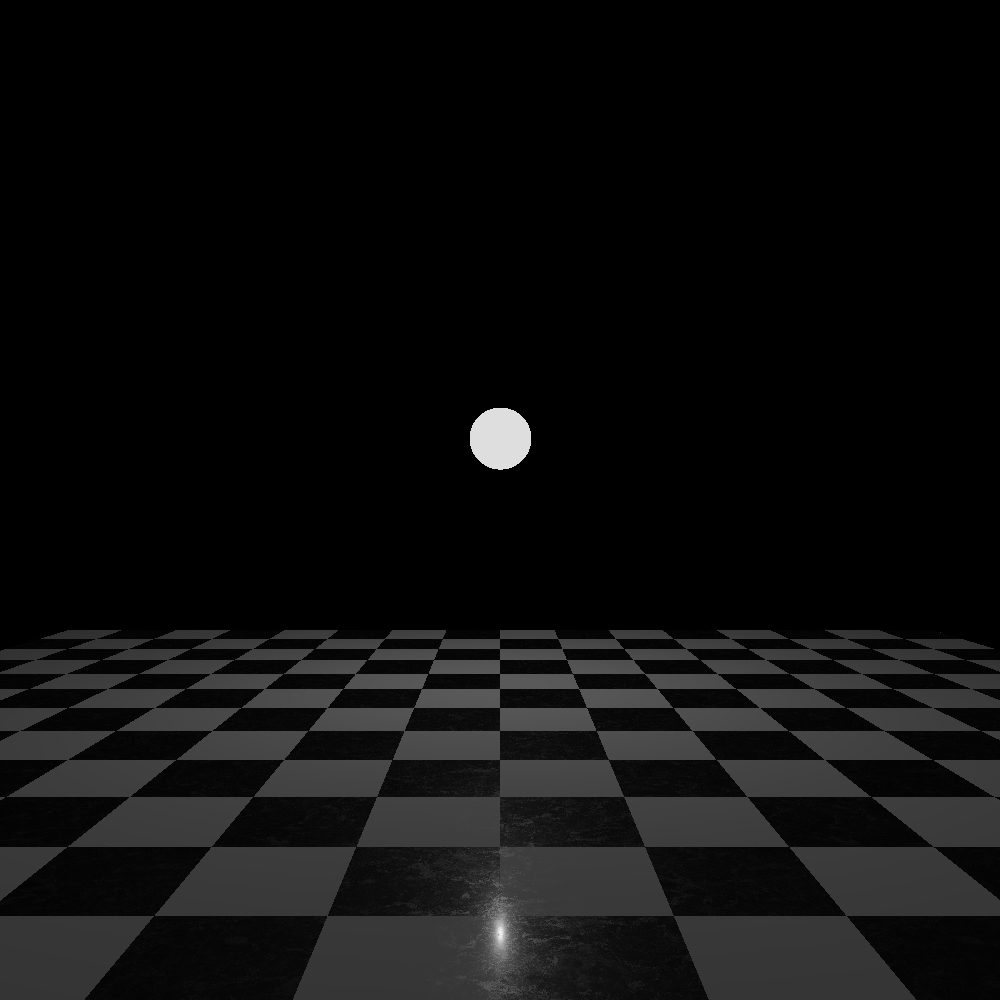
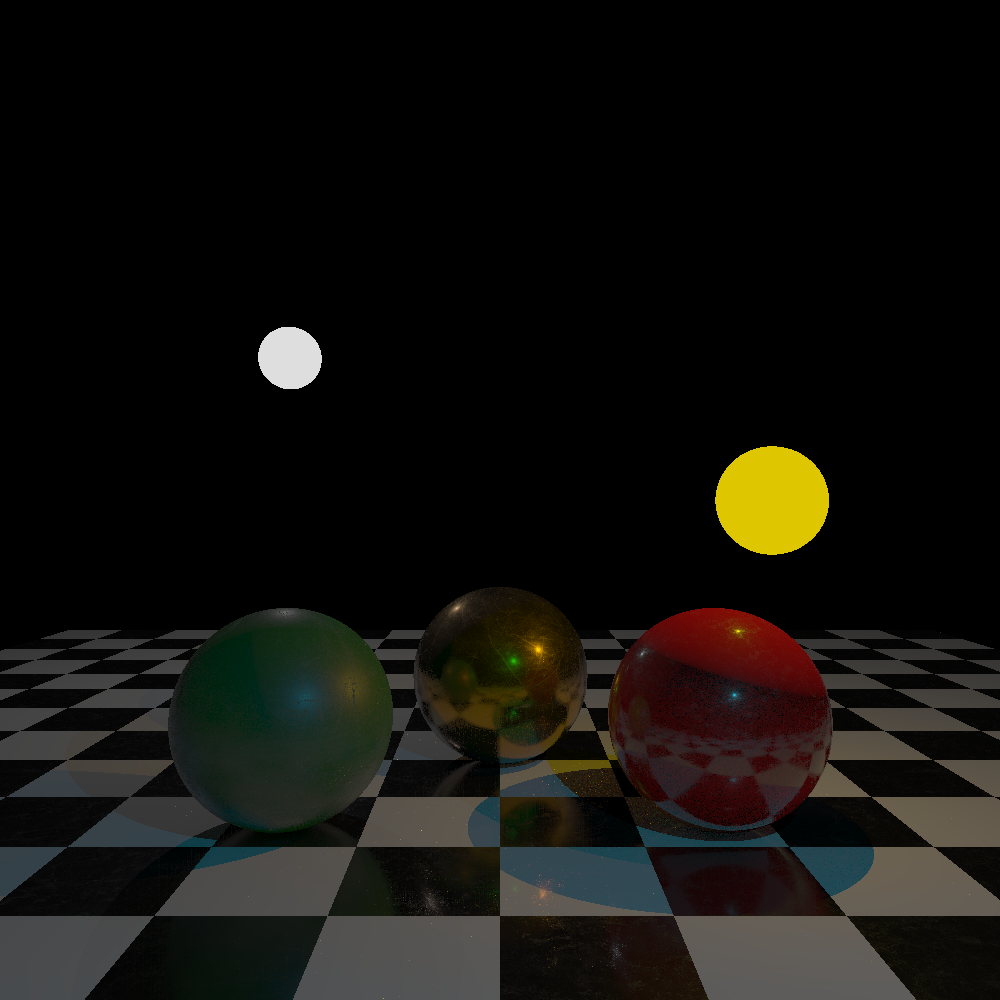
porting the most prolific scenes to the new concept

diff --git a/src/cgg/scne/Structures.java b/src/cgg/scne/Structures.java
@@ -1,0 +1,51 @@
+package cgg.scne;
+
+import static tools.Functions.*;
+import tools.*;
+import cgg.geom.*;
+import cgg.mtrl.*;
+
+
+public class Structures
+{
+	private Structures() {  }
+
+	public static void floor(GraphNode node,Vec3 pos,double size,double texel)
+	{
+		node.register_geometry(
+				new Box(pos,size,1,size,new PhysicalMaterial(Materials.tex_checker,Materials.mat_marble,texel))
+			);
+	}
+
+	public static Geometry die(Vec3 pos,Vec3 rot,Color col,double size,double metal,double roughness)
+	{
+		// corpus
+		Box corpus = new Box(pos,size,size,size,
+							 new PhysicalMaterial(col,color(metal,roughness,1)));
+		Sphere rounding = new Sphere(pos,.75*size,
+									 new PhysicalMaterial(multiply(col,1.5),color(metal,roughness,1)));
+		Complex __Die = new Complex(corpus,rounding,JoinOperation.INTERSECTION);
+
+		// number cutouts
+		double cs = size*.1;
+		PhysicalMaterial __Cutouts = new PhysicalMaterial(color(.0,.05,.0),color(0,.7,1));
+		Sphere one0 = new Sphere(add(pos,multiply(vec3(.0,-.5,.0),size)),cs,__Cutouts);
+		Sphere two0 = new Sphere(add(pos,multiply(vec3(-.5,.25,.25),size)),cs,__Cutouts);
+		Sphere two1 = new Sphere(add(pos,multiply(vec3(-.5,-.2,-.2),size)),cs,__Cutouts);
+		Sphere three0 = new Sphere(add(pos,multiply(vec3(0,0,.5),size)),cs,__Cutouts);
+		Sphere three1 = new Sphere(add(pos,multiply(vec3(.25,-.25,.5),size)),cs,__Cutouts);
+		Sphere three2 = new Sphere(add(pos,multiply(vec3(-.25,.25,.5),size)),cs,__Cutouts);
+		Complex numbers = new Complex(one0,two0,JoinOperation.UNION);
+		numbers = new Complex(numbers,two1,JoinOperation.UNION);
+		numbers = new Complex(numbers,three0,JoinOperation.UNION);
+		numbers = new Complex(numbers,three1,JoinOperation.UNION);
+		numbers = new Complex(numbers,three2,JoinOperation.UNION);
+		__Die = new Complex(__Die,numbers,JoinOperation.DIFFERENCE);
+		GraphNode __Node = new GraphNode(vec3(0),vec3(1),rot);
+
+		// finalize
+		__Node.register_geometry(__Die);
+		__Node.update_bounds();
+		return __Node;
+	}
+}

diff --git a/src/cgg/scne/TestingScene.java b/src/cgg/scne/TestingScene.java
@@ -8,32 +8,37 @@ import cgg.mtrl.*;
 
 public class TestingScene extends Scene
 {
-	// textures
-	private ImageTexture tex_checker;
-
-	// materials
-	private ImageTexture mat_plastic;
-	private ImageTexture mat_gold;
-	private ImageTexture mat_marble;
-
-
 	public TestingScene()
 	{
 		super(vec3(0,-1,0),vec3(0,0,0));
 
-		// textures
-		this.tex_checker = new ImageTexture("./res/checker_neo.png");
-
-		// materials
-		this.mat_plastic = new ImageTexture("./res/plastic/material.png");
-		this.mat_gold = new ImageTexture("./res/gold/material.png");
-		this.mat_marble = new ImageTexture("./res/marble/material.png");
-
 		// flooring
-		groot.register_geometry(new Box(vec3(0,1,-5),10,1,10,new PhysicalMaterial(tex_checker,mat_marble,4)));
+		Structures.floor(groot,vec3(0,1,-5),10,4);
+
+		// geometry
+		GraphNode __TestingSpheres = new GraphNode(vec3(0,0,-4),vec3(1),vec3(0));
+		__TestingSpheres.register_geometry(
+				new Sphere(vec3(-1,0,0),.5,
+						   new PhysicalMaterial(color(0,.05,0),Materials.mat_plastic,1),Materials.nrm_plastic)
+			);
+		__TestingSpheres.register_geometry(
+				new Sphere(vec3(0,0,-1),.5,
+						   new PhysicalMaterial(color(.75,.25,0),Materials.mat_gold,1),Materials.nrm_gold)
+			);
+		__TestingSpheres.register_geometry(
+				new Sphere(vec3(1,0,0),.5,
+						   new PhysicalMaterial(color(.75,.0,0),Materials.mat_marble,1),Materials.nrm_marble)
+			);
+		__TestingSpheres.update_bounds();
+		groot.register_geometry(__TestingSpheres);
 
 		// lighting
-		craeveTheVorbiddenLaemp(vec3(0,-1.5,-7),color(1,1,1),.4);
+		//craeveTheVorbiddenLaemp(vec3(0,-1.5,-7),color(1,1,1),.4);
+		craeveTheVorbiddenLaemp(vec3(1.25,-1,-4),color(1,.5,0),.7);
+		craeveTheVorbiddenLaemp(vec3(1.25,-2,-1),color(0,.5,1),1);
+		craeveTheVorbiddenLaemp(vec3(1.5,.75,-1),color(.7,.7,.7),.4);
+		craeveTheVorbiddenLaemp(vec3(2.5,.75,-5.4),color(.7,.7,.7),.4);
+		craeveTheVorbiddenLaemp(vec3(-1.7,-2.15,-7),color(1,1,1),.2);
 
 		groot.update_bounds();
 	}

diff --git a/src/cgg/scne/KingDice.java b/src/cgg/scne/KingDice.java
@@ -1,0 +1,66 @@
+package cgg.scne;
+
+import static tools.Functions.*;
+import tools.*;
+import cgg.geom.*;
+
+
+public class KingDice extends Scene
+{
+	private int dice_count = 0;
+
+	public KingDice()
+	{
+		super(vec3(0,-10,0),vec3(35,0,0));
+
+		// flooring
+		Structures.floor(groot,vec3(0,1,-50),100,30);
+
+		// geometry
+		GraphNode midline = new GraphNode();
+		for (int z=0;z>-100;z-=10) midline.register_geometry(_diceGroup(vec3(0,0,z)));
+		midline.update_bounds();
+		GraphNode leftline = new GraphNode();
+		for (int z=0;z>-100;z-=10) leftline.register_geometry(_diceGroup(vec3(-10,0,z)));
+		leftline.update_bounds();
+		GraphNode rightline = new GraphNode();
+		for (int z=0;z>-100;z-=10) rightline.register_geometry(_diceGroup(vec3(10,0,z)));
+		rightline.update_bounds();
+		System.out.println(dice_count);
+
+		// lighting
+		craeveTheVorbiddenLaemp(vec3(0,-4,-7),color(1,1,1),.4);
+
+		// assemble
+		groot.register_geometry(midline);
+		groot.register_geometry(leftline);
+		groot.register_geometry(rightline);
+		groot.update_bounds();
+	}
+
+	private Geometry _diceGroup(Vec3 chunk)
+	{
+		GraphNode out = new GraphNode(chunk,vec3(1),vec3(0));
+		for (int x=-5;x<5;x++)
+		{
+			for (int z=0;z>-10;z--)
+				out.register_geometry(_diceStack(vec3(x,0,z)));
+		}
+		out.update_bounds();
+		return out;
+	}
+
+	private Geometry _diceStack(Vec3 position)
+	{
+		GraphNode out = new GraphNode(add(position,multiply(randomDirection(),.15)),vec3(1),vec3(0));
+		for (int i=0;i<random()*6+1;i++)
+		{
+			out.register_geometry(
+					Structures.die(vec3(0,-.5*i,0),vec3(0,20*random(),0),randomHue(),.5,random(),random())
+				);
+			dice_count++;
+		}
+		out.update_bounds();
+		return out;
+	}
+}

diff --git a/src/cgg/scne/Materials.java b/src/cgg/scne/Materials.java
@@ -1,0 +1,23 @@
+package cgg.scne;
+
+import tools.*;
+import cgg.mtrl.*;
+
+
+public class Materials
+{
+	// textures
+	public static final ImageTexture tex_checker = new ImageTexture("./res/checker_neo.png");
+
+	// materials
+	public static final ImageTexture mat_plastic = new ImageTexture("./res/plastic/material.png");
+	public static final ImageTexture mat_gold = new ImageTexture("./res/gold/material.png");
+	public static final ImageTexture mat_marble = new ImageTexture("./res/marble/material.png");
+
+	// normal maps
+	public static final NormalMap nrm_plastic = new NormalMap("./res/plastic/normals.png");
+	public static final NormalMap nrm_gold = new NormalMap("./res/gold/normals.png");
+	public static final NormalMap nrm_marble = new NormalMap("./res/marble/normals.png");
+
+	private Materials() {  }
+}
